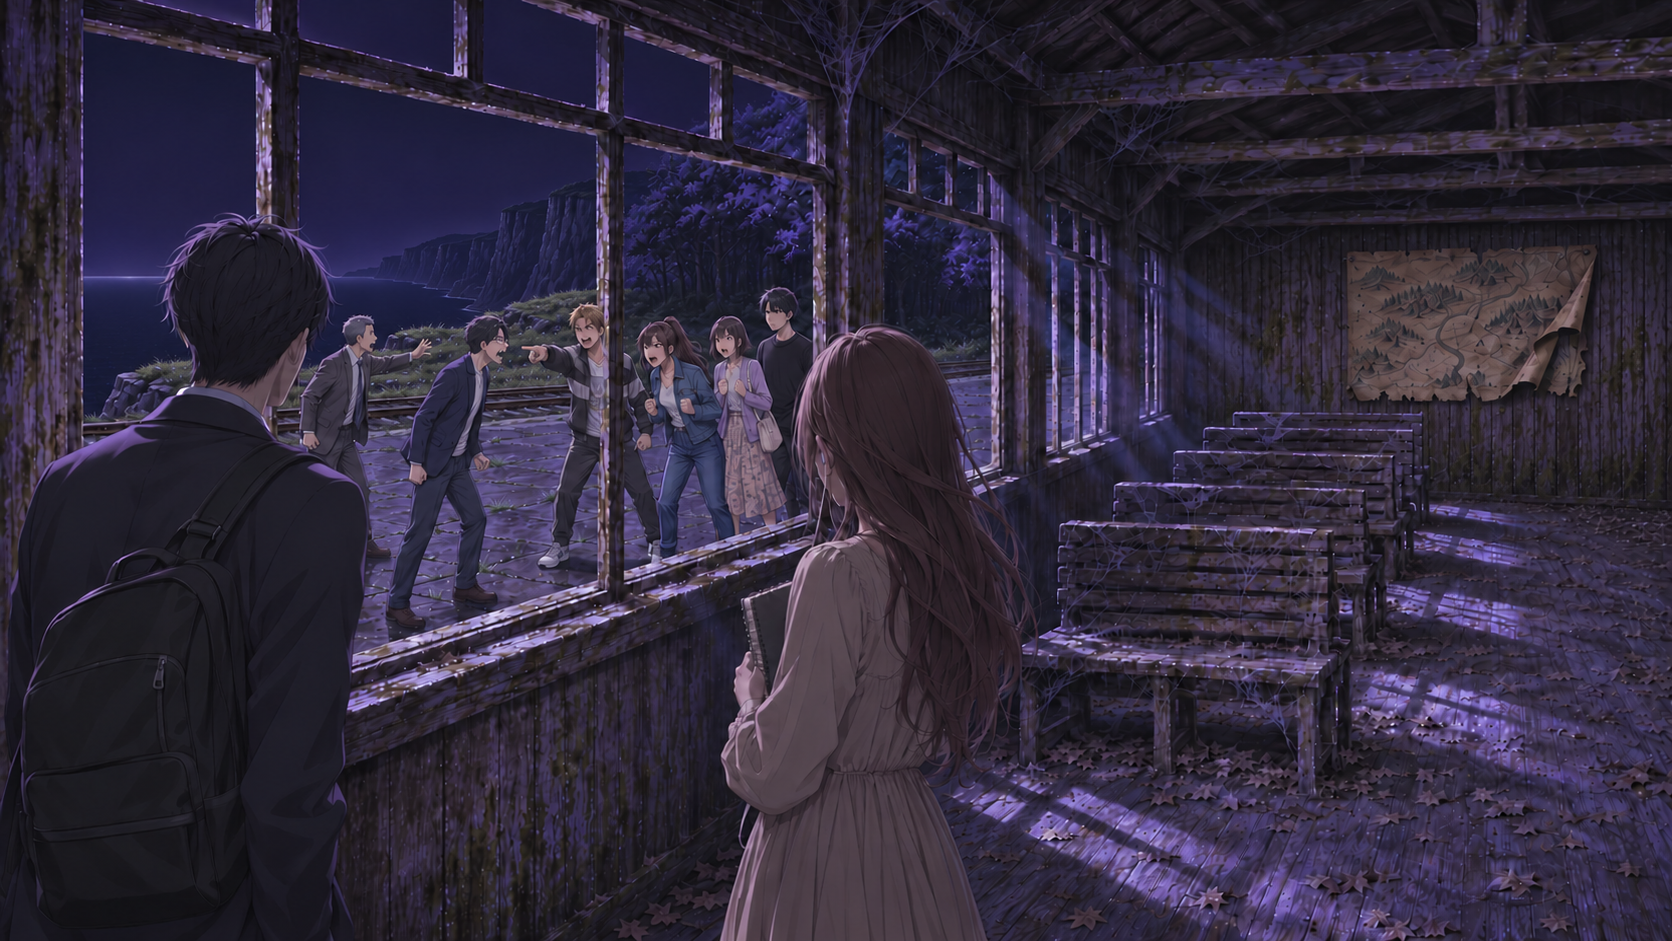
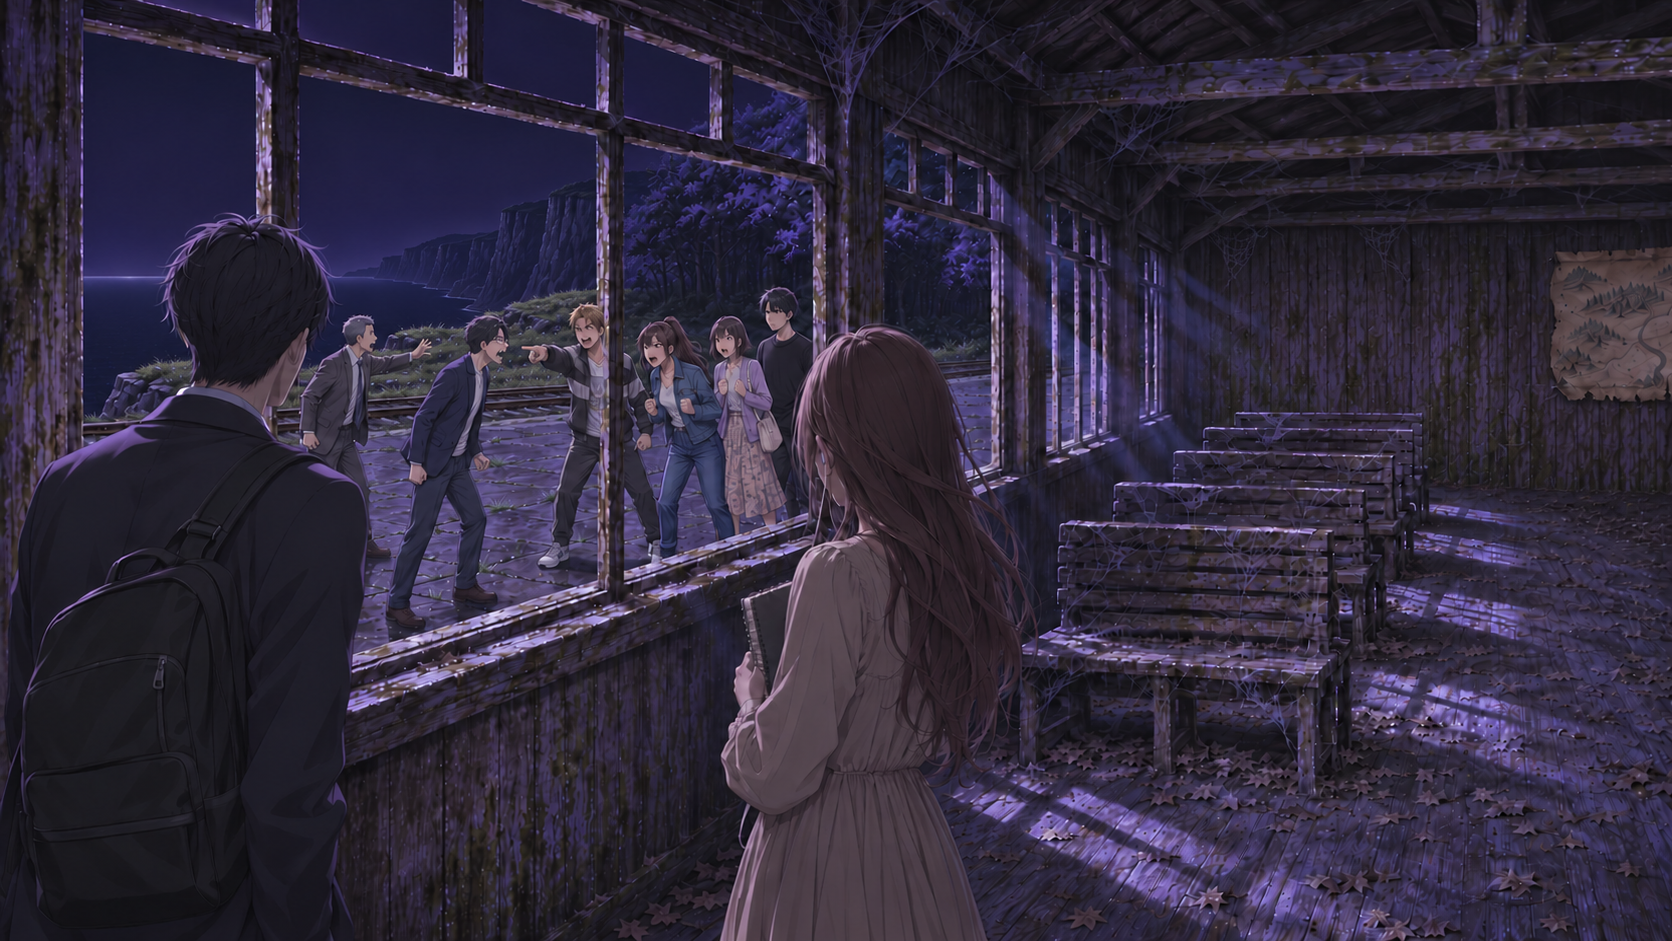
Cut the map off at the frame edge in b1a_act6_through_window
Slide the map to the right edge of the picture so only its left half
shows, per Hapadona's note. Only the end wall region was replaced.

Changed region(s): [[0.7153, 0.2465, 1.0, 0.5239]]

diff --git a/packages/stories/raw/trainAdventure/branch_1a/act6.md b/packages/stories/raw/trainAdventure/branch_1a/act6.md
@@ -85,7 +85,7 @@ the waiting room inside the abandoned wooden station house of Jishui: a long sin
 **慷慨大叔**：(臉色一沉)不行，我得出去看看！這群年輕人太衝動了，萬一真鬧出事來就糟了！
 
 ```bg through_window
-the waiting room inside the abandoned wooden station house of Jishui: a long single-storey room under a high open roof with a dusty plank floor strewn with dead leaves; dark weathered plank walls with cracks and mould stains; exposed old roof beams heavy with cobwebs; rows of old wooden slatted benches draped with spider webs, all facing the same way; along the front wall, window openings in old wooden frames with no glass look out onto the cracked stone platform, the empty railway track just beyond it, then the grassy, rocky edge of a high sea cliff and the flat black sea far below it, with the sheer dark face of the cliff under the forest to one side and open sea to the horizon on the other, and no moon inside the openings; on the far end wall a large yellowed parchment map, torn at the edges and half peeling off the planks, held by rusty nails, with only faint ink lines of paths and a forest and no readable writing; the far end wall is wide and plain apart from the map, and the broken ticket window in its corner is out of frame; cold violet moonlight falls in through the window openings in pale shafts; no lamps and no electric light inside. Camera: inside the dark waiting room at standing eye level, behind Li Jie and Emi, who stand at one of the glassless window openings in the front wall, looking out. Li Jie (28-year-old man, short black hair, dark suit jacket, black backpack) on the left of the opening and Emi (young woman, long chestnut hair, beige cotton dress, white wired earphones, plain white canvas sneakers) on the right, both seen from behind in three-quarter, dark shapes against the moonlit opening, Emi holding her sketchbook. Through the window opening, framed by its old wooden mullions: the cracked grey-white stone platform under cold violet moonlight, the empty track, the grassy cliff edge just past it, the black sea far below and, to one side, the dark cliff face under the forest, no moon visible. Out on the platform a loud argument, everyone facing each other, nobody walking away yet, from left to right: Yamamoto (late-40s man, short grey-streaked hair, no glasses, grey suit, navy striped tie, no bag, since he left it in the waiting room) steps in with one arm stretched out, trying to calm them; Saito Ren (rimless glasses, navy blazer over a white tee) leans forward shouting at the students; Kenta (light-brown hair, black-and-grey track jacket) jabs a finger at Saito, shouting back; Asuka (brown ponytail, denim jacket, blue jeans) shouts with both fists clenched; Misaki (dark bob, lavender cardigan, floral skirt, cream shoulder bag) cringes beside her; Takumi (black knit sweater) stands behind them, grim. The people outside are small. Only the people named here are in view. Muted cold palette, moody cinematic visual-novel background art, 16:9, no text, no logo
+the waiting room inside the abandoned wooden station house of Jishui: a long single-storey room under a high open roof with a dusty plank floor strewn with dead leaves; dark weathered plank walls with cracks and mould stains; exposed old roof beams heavy with cobwebs; rows of old wooden slatted benches draped with spider webs, all facing the same way; along the front wall, window openings in old wooden frames with no glass look out onto the cracked stone platform, the empty railway track just beyond it, then the grassy, rocky edge of a high sea cliff and the flat black sea far below it, with the sheer dark face of the cliff under the forest to one side and open sea to the horizon on the other, and no moon inside the openings; on the far end wall a large yellowed parchment map, torn at the edges and half peeling off the planks, held by rusty nails, with only faint ink lines of paths and a forest and no readable writing; the far end wall is wide and plain, the map hangs at the right edge of the frame with half of it cut off outside the picture, and the broken ticket window beyond it is out of frame; cold violet moonlight falls in through the window openings in pale shafts; no lamps and no electric light inside. Camera: inside the dark waiting room at standing eye level, behind Li Jie and Emi, who stand at one of the glassless window openings in the front wall, looking out. Li Jie (28-year-old man, short black hair, dark suit jacket, black backpack) on the left of the opening and Emi (young woman, long chestnut hair, beige cotton dress, white wired earphones, plain white canvas sneakers) on the right, both seen from behind in three-quarter, dark shapes against the moonlit opening, Emi holding her sketchbook. Through the window opening, framed by its old wooden mullions: the cracked grey-white stone platform under cold violet moonlight, the empty track, the grassy cliff edge just past it, the black sea far below and, to one side, the dark cliff face under the forest, no moon visible. Out on the platform a loud argument, everyone facing each other, nobody walking away yet, from left to right: Yamamoto (late-40s man, short grey-streaked hair, no glasses, grey suit, navy striped tie, no bag, since he left it in the waiting room) steps in with one arm stretched out, trying to calm them; Saito Ren (rimless glasses, navy blazer over a white tee) leans forward shouting at the students; Kenta (light-brown hair, black-and-grey track jacket) jabs a finger at Saito, shouting back; Asuka (brown ponytail, denim jacket, blue jeans) shouts with both fists clenched; Misaki (dark bob, lavender cardigan, floral skirt, cream shoulder bag) cringes beside her; Takumi (black knit sweater) stands behind them, grim. The people outside are small. Only the people named here are in view. Muted cold palette, moody cinematic visual-novel background art, 16:9, no text, no logo
 ```
 
 **旁白**：慷慨大叔快步走出候車室。李杰和恵美留在原地，透過破舊的窗戶看著外面的情況，只能聽到激烈的對話。
